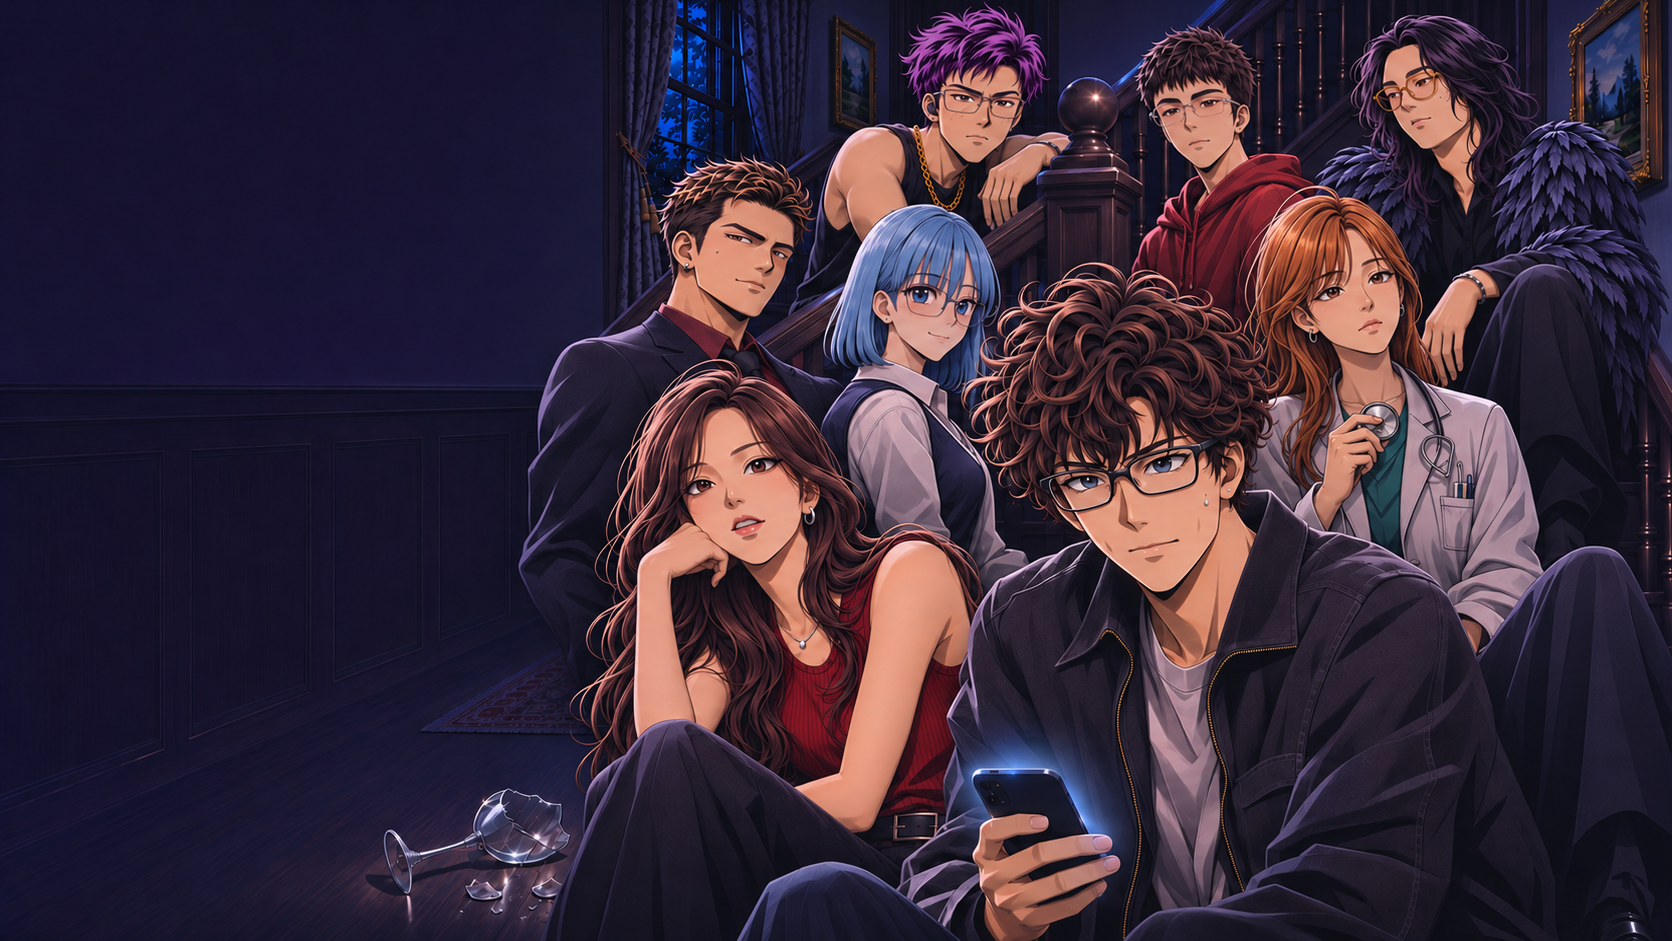
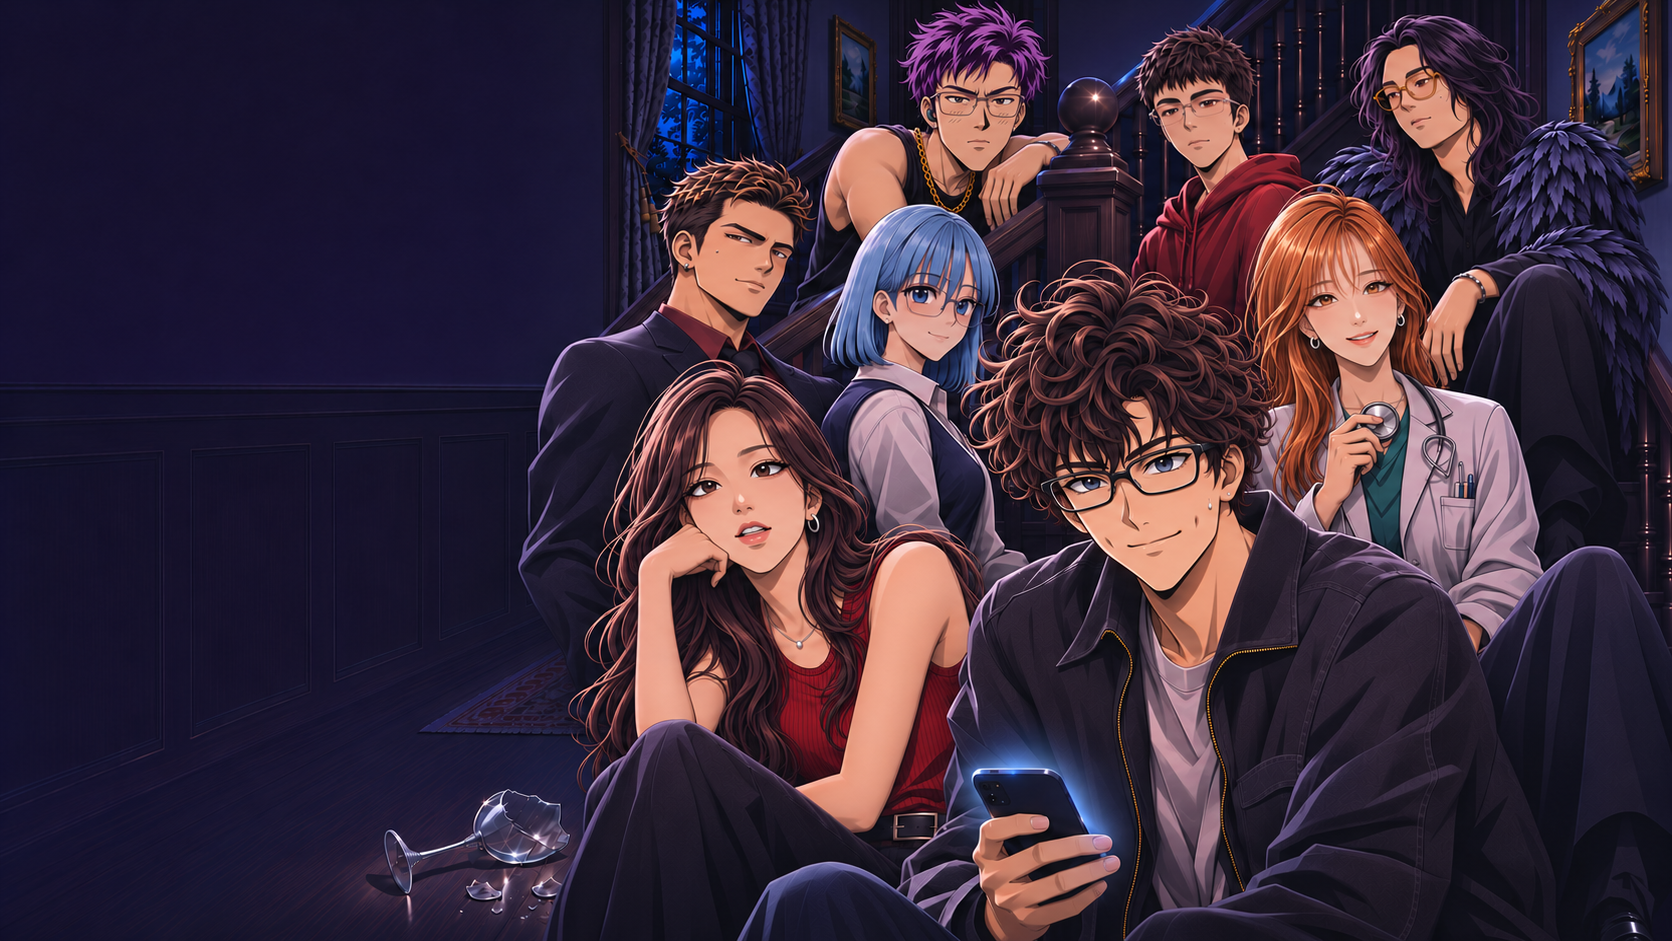
Match cover faces to Miko Kat Arthur and Locke portraits

diff --git a/index.html b/index.html
@@ -6,7 +6,7 @@
   <meta name="google" content="notranslate">
   <title>樂隊酒局殺人事件</title>
   <link rel="stylesheet" href="./src/style.css?v=internal-analytics-2">
-  <script type="module" src="./src/main.mjs?v=internal-analytics-2"></script>
+  <script type="module" src="./src/main.mjs?v=title-faces-2"></script>
 </head>
 <body>
   <main>
